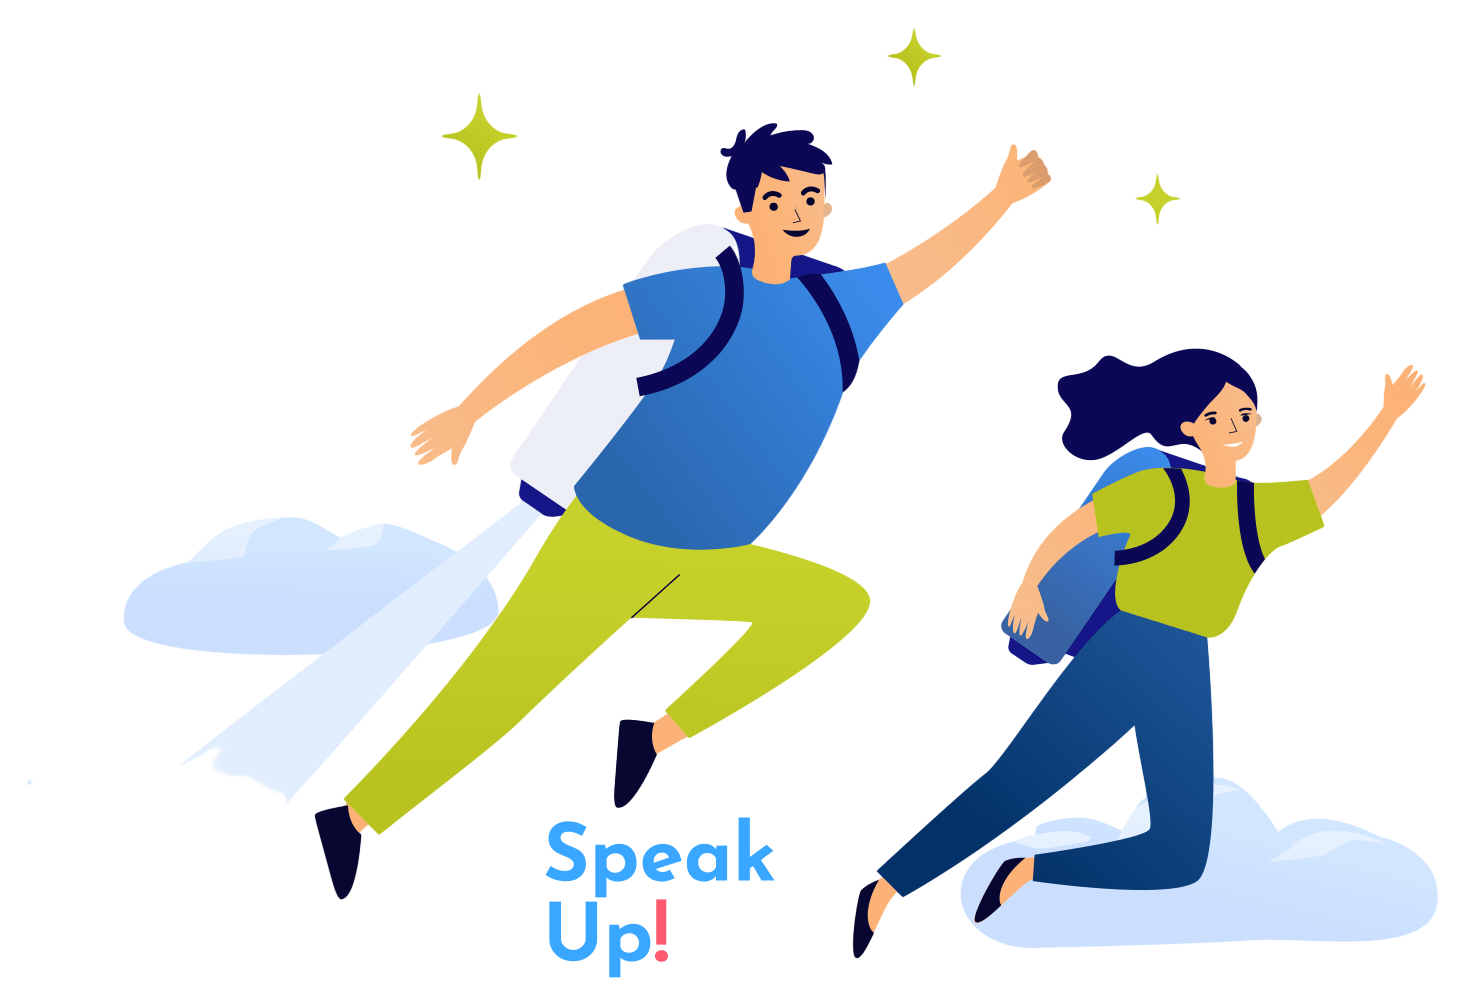
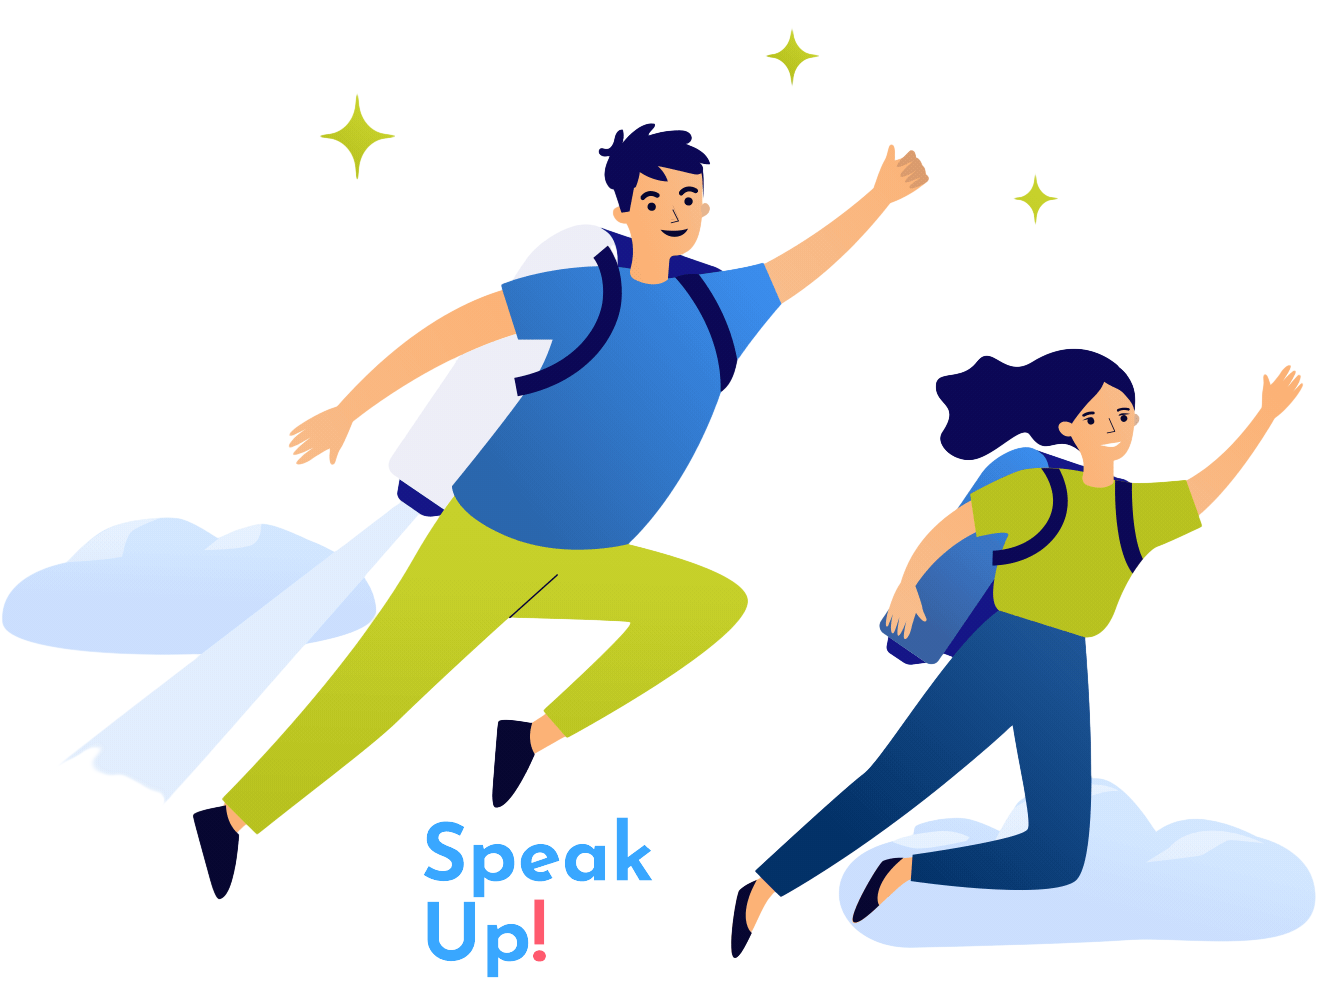
update responsive di halaman sign in

diff --git a/src/components/SignIn.jsx b/src/components/SignIn.jsx
@@ -1,84 +1,89 @@
 import React from "react";
 import { Input } from "./forms/Input";
 import Left from './../assets/illustrations/Left.png'
+import LeftFull from './../assets/illustrations/Left full.png'
 
 export function SignIn() {
     return (
-        <section className="h-full bg-gradient-to-bl from-white to-blue-50">
-            <div className="h-full py-2">
-                <div className="flex flex-wrap items-center justify-center lg:justify-between">
-                    {/* <!-- Left column container with background--> */}
-                    <div className="items-center mb-12 md:mb-0 md:w-6/12 lg:w-5/12 xl:w-6/12">
-                        <img
-                            src={Left}
-                            className="xl:w-10/12 md:w-11/12 py-10"
-                            alt="Phone image"
-                        />
-                    </div>
+        <section className="h-full w-full bg-gradient-to-bl from-white to-blue-50">
+            <div className="flex flex-wrap items-center justify-center lg:justify-between">
+                <div className="mb-10 md:mb-0 md:w-6/12 lg:w-5/12 xl:w-6/12">
+                    <img
+                        src={Left}
+                        className="hidden items-center xl:block md:w-11/12 py-10 object-cover h-auto"
+                        alt="SpeakUp"
+                    />
+                    {/* Gambar hanya ditampilkan untuk lebar layar minimal 1280px */}
+                    <img
+                        src={LeftFull}
+                        className="custom-img items-center py-10 max-w-sm lg:max-w-lg"
+                        alt="SpeakUp"
+                    />
+                </div>
 
-                    {/* <!-- Right column container with form --> */}
-                    <div className="md:w-6/12 lg:w-5/12 xl:w-4/12 px-6 md:px-12 md:mt-6 lg:mt-0 md:mr-0 xl:mr-32">
-                        <form>
-                            <h2 className="text-xl text-center font-bold text-gray-800 mb-16 inter-bold">
-                                Welcome to <span className="primaryBlue">SpeakUp</span><span className="red">!</span>
-                            </h2>
 
-                            {/* <!-- Email input --> */}
-                            <div className="mb-5 grid grid-cols-1">
-                                <Input
-                                    label="Email address"
-                                    type="email"
-                                    id="email"
-                                    placeholder="Email address"
+                {/* <!-- Right column container with form --> */}
+                <div className="md:w-6/12 lg:w-5/12 xl:w-4/12 px-6 md:px-12 md:mt-6 lg:mt-10 md:mr-0 xl:mr-32">
+                    <form>
+                        <h2 className="text-xl text-center font-bold text-gray-800 my-10 inter-bold">
+                            Welcome to <span className="primaryBlue">SpeakUp</span><span className="red">!</span>
+                        </h2>
+
+                        {/* <!-- Email input --> */}
+                        <div className="mb-5 grid grid-cols-1">
+                            <Input
+                                label="Email address"
+                                type="email"
+                                id="email"
+                                placeholder="Email address"
+                            />
+                        </div>
+
+                        {/* <!--Password input--> */}
+                        <div className="mb-5 grid grid-cols-1">
+                            <Input
+                                label="Password"
+                                type="password"
+                                id="password"
+                                placeholder="Password"
+                            />
+                        </div>
+
+                        {/* <!-- Remember me checkbox --> */}
+                        <div className="mb-6 flex items-center justify-between gap-4">
+                            <div className="mb-[0.125rem] block min-h-[1.5rem] pl-[1.5rem]">
+                                <input
+                                    className="relative float-left -ml-[1.5rem] mr-[6px] mt-[0.15rem] h-[1.125rem] w-[1.125rem] appearance-none rounded-[0.25rem] border-[0.125rem] border-solid border-neutral-300 outline-none before:pointer-events-none before:absolute before:h-[0.875rem] before:w-[0.875rem] before:scale-0 before:rounded-full before:bg-transparent before:opacity-0 before:shadow-[0px_0px_0px_13px_transparent] before:content-[''] checked:border-primary checked:bg-primary checked:before:opacity-[0.16] checked:after:absolute checked:after:-mt-px checked:after:ml-[0.25rem] checked:after:block checked:after:h-[0.8125rem] checked:after:w-[0.375rem] checked:after:rotate-45 checked:after:border-[0.125rem] checked:after:border-l-0 checked:after:border-t-0 checked:after:border-solid checked:after:border-white checked:after:bg-transparent checked:after:content-['']"
+                                    type="checkbox"
+                                    value=""
+                                    id="remember"
+                                    defaultChecked
                                 />
-                            </div>
-
-                            {/* <!--Password input--> */}
-                            <div className="mb-5 grid grid-cols-1">
-                                <Input
-                                    label="Password"
-                                    type="password"
-                                    id="password"
-                                    placeholder="Password"
-                                />
-                            </div>
-
-                            {/* <!-- Remember me checkbox --> */}
-                            <div className="mb-6 flex items-center justify-between gap-4">
-                                <div className="mb-[0.125rem] block min-h-[1.5rem] pl-[1.5rem]">
-                                    <input
-                                        className="relative float-left -ml-[1.5rem] mr-[6px] mt-[0.15rem] h-[1.125rem] w-[1.125rem] appearance-none rounded-[0.25rem] border-[0.125rem] border-solid border-neutral-300 outline-none before:pointer-events-none before:absolute before:h-[0.875rem] before:w-[0.875rem] before:scale-0 before:rounded-full before:bg-transparent before:opacity-0 before:shadow-[0px_0px_0px_13px_transparent] before:content-[''] checked:border-primary checked:bg-primary checked:before:opacity-[0.16] checked:after:absolute checked:after:-mt-px checked:after:ml-[0.25rem] checked:after:block checked:after:h-[0.8125rem] checked:after:w-[0.375rem] checked:after:rotate-45 checked:after:border-[0.125rem] checked:after:border-l-0 checked:after:border-t-0 checked:after:border-solid checked:after:border-white checked:after:bg-transparent checked:after:content-['']"
-                                        type="checkbox"
-                                        value=""
-                                        id="remember"
-                                        defaultChecked
-                                    />
-                                    <label
-                                        className="inline-block pl-[0.15rem] hover:cursor-pointer"
-                                        htmlFor="exampleCheck3"
-                                    >
-                                        Remember me
-                                    </label>
-                                </div>
-
-                                {/* <!-- Forgot password link --> */}
-                                <a
-                                    href="#!"
-                                    className="text-primary primaryBlue transition duration-150 ease-in-out hover:text-primary-600 focus:text-primary-600 active:text-primary-700 dark:text-primary-400 dark:hover:text-primary-500 dark:focus:text-primary-500 dark:active:text-primary-600"
+                                <label
+                                    className="inline-block pl-[0.15rem] hover:cursor-pointer"
+                                    htmlFor="exampleCheck3"
                                 >
-                                    Forgot password?
-                                </a>
+                                    Remember me
+                                </label>
                             </div>
 
-                            {/* <!-- Submit button --> */}
-                            <button
-                                type="button"
-                                className="inline-block mb-10 w-full rounded bg-primaryBlue px-7 pb-2.5 pt-3 text-sm font-medium uppercase leading-normal text-white shadow-[0_4px_9px_-4px_#3b71ca] transition duration-150 ease-in-out hover:bg-primary-600 hover:shadow-[0_8px_9px_-4px_rgba(59,113,202,0.3),0_4px_18px_0_rgba(59,113,202,0.2)] focus:bg-primary-600 focus:shadow-[0_8px_9px_-4px_rgba(59,113,202,0.3),0_4px_18px_0_rgba(59,113,202,0.2)] focus:outline-none focus:ring-0 active:bg-primary-700 active:shadow-[0_8px_9px_-4px_rgba(59,113,202,0.3),0_4px_18px_0_rgba(59,113,202,0.2)] dark:shadow-[0_4px_9px_-4px_rgba(59,113,202,0.5)] dark:hover:shadow-[0_8px_9px_-4px_rgba(59,113,202,0.2),0_4px_18px_0_rgba(59,113,202,0.1)] dark:focus:shadow-[0_8px_9px_-4px_rgba(59,113,202,0.2),0_4px_18px_0_rgba(59,113,202,0.1)] dark:active:shadow-[0_8px_9px_-4px_rgba(59,113,202,0.2),0_4px_18px_0_rgba(59,113,202,0.1)]"
+                            {/* <!-- Forgot password link --> */}
+                            <a
+                                href="#!"
+                                className="text-primary primaryBlue transition duration-150 ease-in-out hover:text-primary-600 focus:text-primary-600 active:text-primary-700 dark:text-primary-400 dark:hover:text-primary-500 dark:focus:text-primary-500 dark:active:text-primary-600"
                             >
-                                Sign in
-                            </button>
-                        </form>
-                    </div>
+                                Forgot password?
+                            </a>
+                        </div>
+
+                        {/* <!-- Submit button --> */}
+                        <button
+                            type="button"
+                            className="inline-block mb-36 w-full rounded bg-primaryBlue px-7 pb-2.5 pt-3 text-sm font-medium uppercase leading-normal text-white shadow-[0_4px_9px_-4px_#3b71ca] transition duration-150 ease-in-out hover:bg-primary-600 hover:shadow-[0_8px_9px_-4px_rgba(59,113,202,0.3),0_4px_18px_0_rgba(59,113,202,0.2)] focus:bg-primary-600 focus:shadow-[0_8px_9px_-4px_rgba(59,113,202,0.3),0_4px_18px_0_rgba(59,113,202,0.2)] focus:outline-none focus:ring-0 active:bg-primary-700 active:shadow-[0_8px_9px_-4px_rgba(59,113,202,0.3),0_4px_18px_0_rgba(59,113,202,0.2)] dark:shadow-[0_4px_9px_-4px_rgba(59,113,202,0.5)] dark:hover:shadow-[0_8px_9px_-4px_rgba(59,113,202,0.2),0_4px_18px_0_rgba(59,113,202,0.1)] dark:focus:shadow-[0_8px_9px_-4px_rgba(59,113,202,0.2),0_4px_18px_0_rgba(59,113,202,0.1)] dark:active:shadow-[0_8px_9px_-4px_rgba(59,113,202,0.2),0_4px_18px_0_rgba(59,113,202,0.1)]"
+                        >
+                            Sign in
+                        </button>
+                    </form>
                 </div>
             </div>
         </section>

diff --git a/src/index.css b/src/index.css
@@ -269,3 +269,10 @@
 .bg-lightGrey {
   background-color: #F8F9F9;
 }
+
+@media (min-width: 1280px) {
+  .custom-img {
+      display: none;
+  }
+}
+
